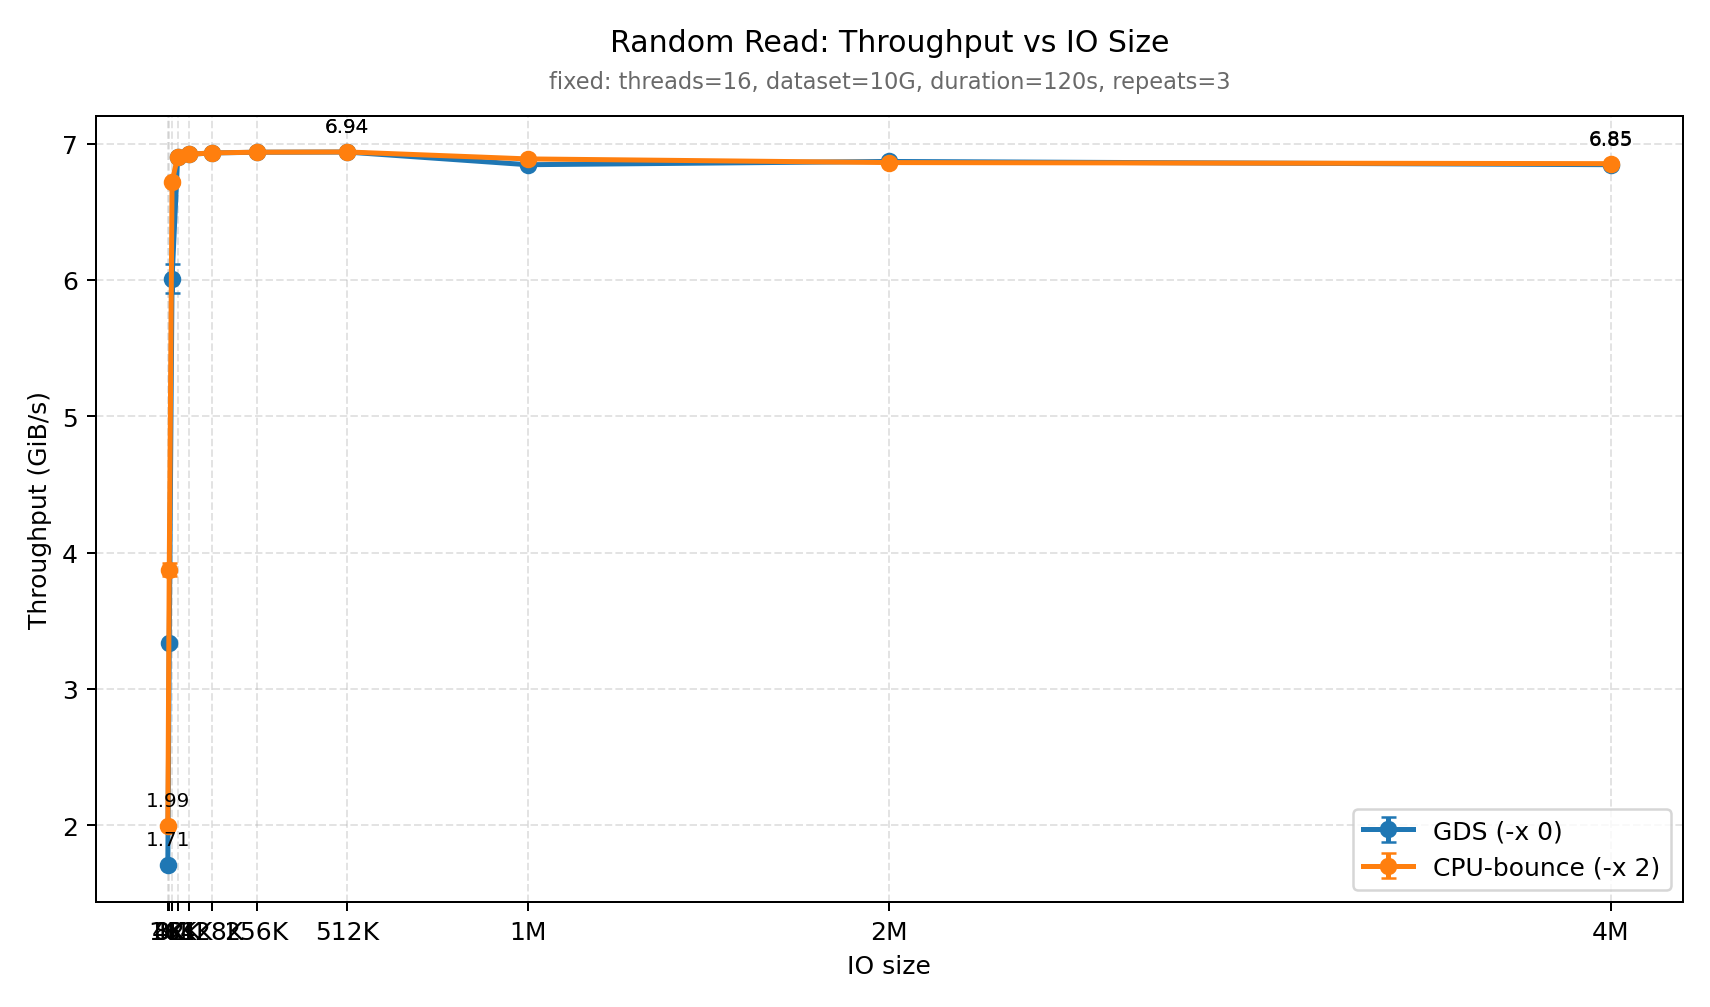
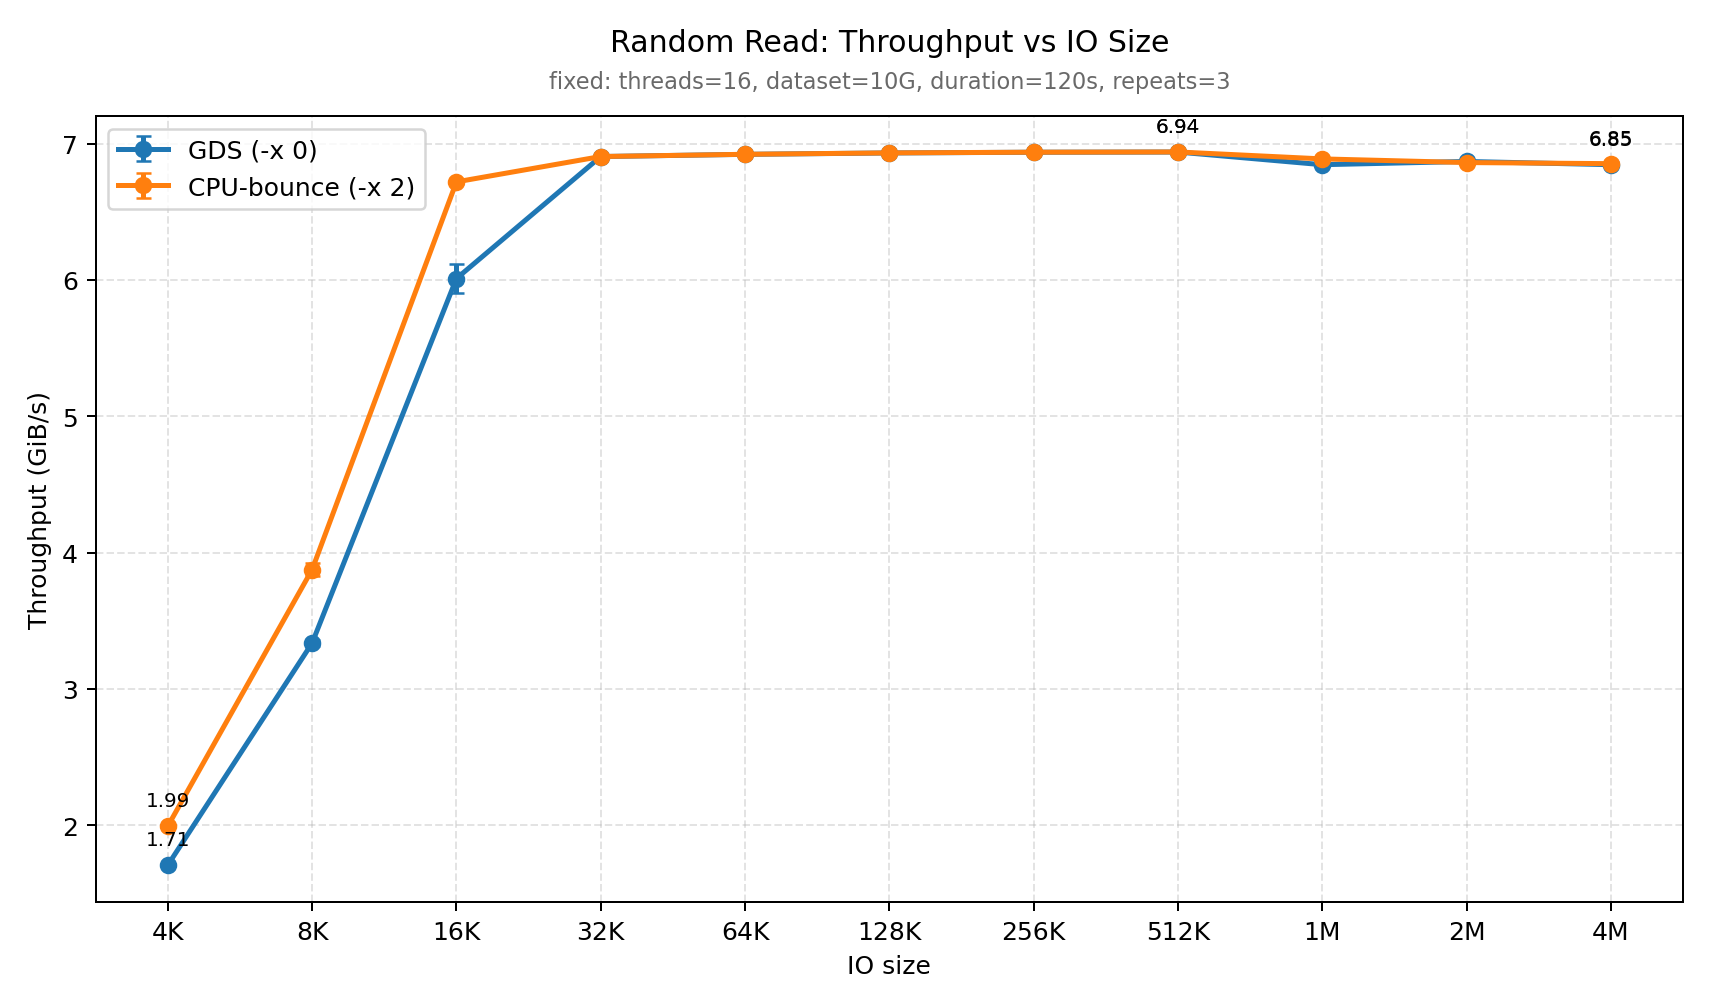
Redraw IO size sweep plots with categorical axis

diff --git a/script/analyze_gdsio_sweep_v3_results.py b/script/analyze_gdsio_sweep_v3_results.py
@@ -124,8 +124,8 @@ def plot_metric(
         if x_axis == "io_size":
             members = [row for row in members if row["threads"] == 16]
             members.sort(key=lambda row: int(row["io_size_kib"]))
-            xs = [int(row["io_size_kib"]) for row in members]
-            labels = [size_label(x) for x in xs]
+            xs = list(range(len(members)))
+            labels = [size_label(int(row["io_size_kib"])) for row in members]
         else:
             members = [row for row in members if row["io_size_kib"] == 4]
             members.sort(key=lambda row: int(row["threads"]))
@@ -283,26 +283,6 @@ def main() -> None:
             title=f"{PATTERN_LABEL[pattern]} Read: gdsio CPU vs IO Size",
             ylabel="gdsio CPU (%)",
             fixed_note="fixed: threads=16, dataset=10G, duration=120s, repeats=3",
-        )
-        plot_metric(
-            summary,
-            fig_dir / f"thread_sweep_{pattern}_throughput.png",
-            pattern=pattern,
-            x_axis="threads",
-            metric="throughput_gibs",
-            title=f"{PATTERN_LABEL[pattern]} 4K Read: Throughput vs Threads",
-            ylabel="Throughput (GiB/s)",
-            fixed_note="fixed: io_size=4K, dataset=10G, duration=120s, repeats=3",
-        )
-        plot_metric(
-            summary,
-            fig_dir / f"thread_sweep_{pattern}_gdsio_cpu.png",
-            pattern=pattern,
-            x_axis="threads",
-            metric="gdsio_cpu_pct",
-            title=f"{PATTERN_LABEL[pattern]} 4K Read: gdsio CPU vs Threads",
-            ylabel="gdsio CPU (%)",
-            fixed_note="fixed: io_size=4K, dataset=10G, duration=120s, repeats=3",
         )
 
     write_markdown(run_dir, summary, rows, md_path)
